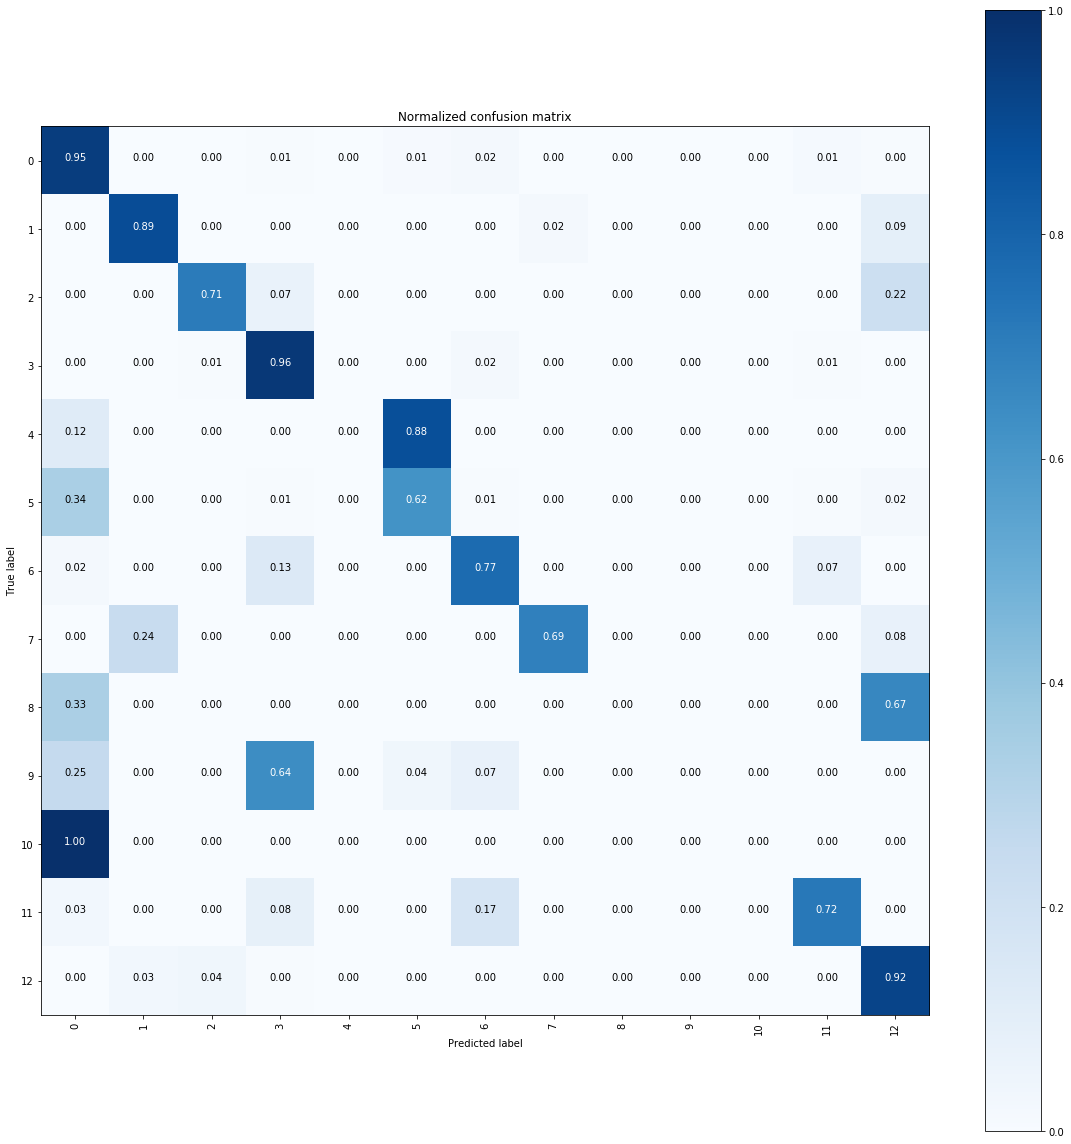
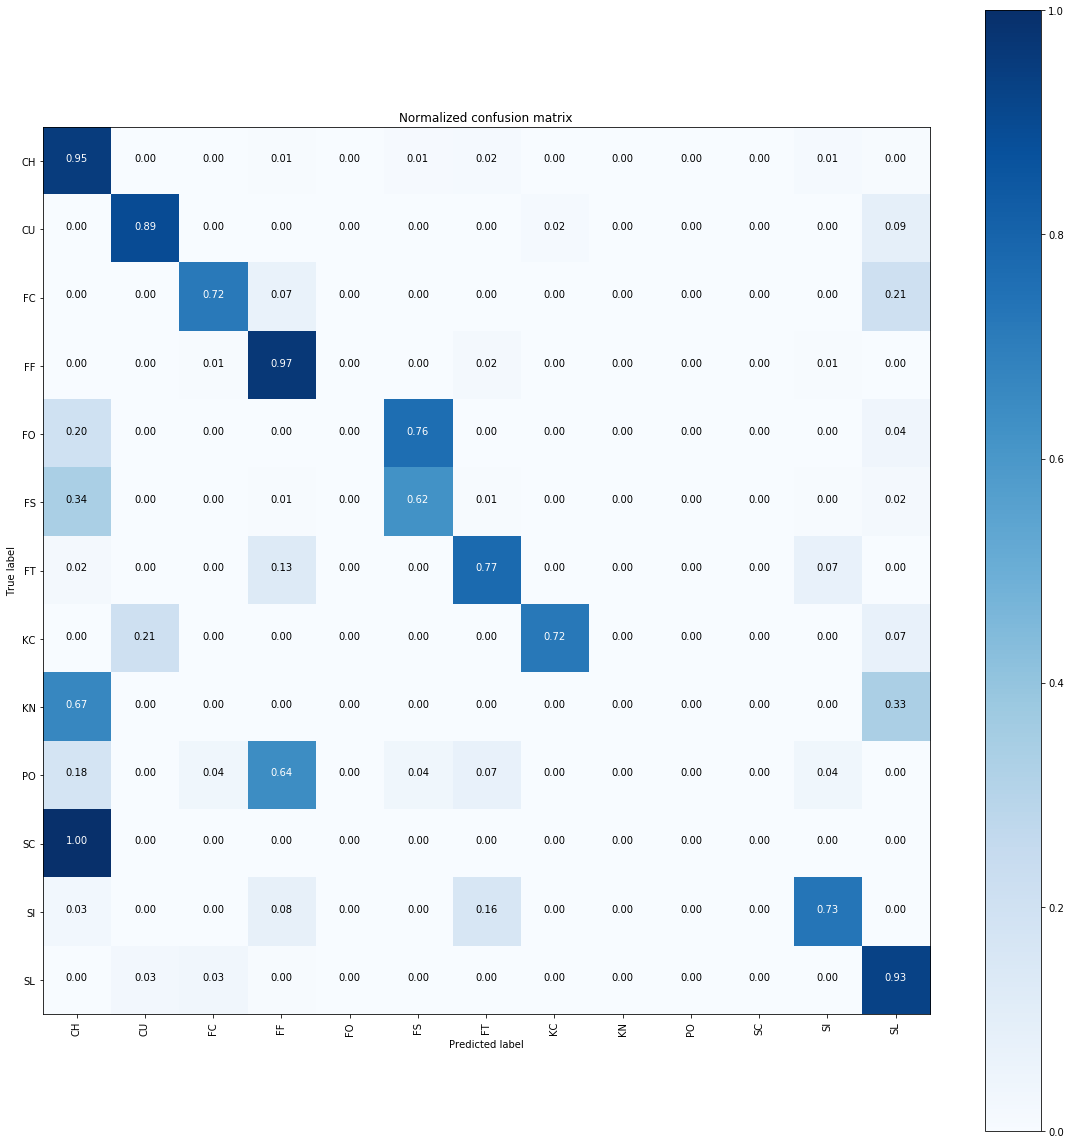
Add precision and recall, and updated images

diff --git a/_posts/2019-12-03-imbalanced.md b/_posts/2019-12-03-imbalanced.md
@@ -49,7 +49,7 @@ set(pitch_types)
 There are 10 pitch types in total.  Below are the descriptions for each pitch:
 
 - `CH`: changeup
-- `CU`:  curveball
+- `CU`: curveball
 - `EP`: ephus
 - `FC`: cutter
 - `FF`: four-seam
@@ -58,6 +58,10 @@ There are 10 pitch types in total.  Below are the descriptions for each pitch:
 - `KC`: knuckle-curve
 - `SI`: sinker
 - `SL`: slider
+- `KN`: knuckle
+- `FO`: forkball
+- `PO`: pitchout
+- `SC`: screwball
 
 We can get the count of each pitch type in our dataset with the following command:
 ```
@@ -156,21 +160,47 @@ from sklearn.ensemble import RandomForestClassifier
 rf = RandomForestClassifier(n_estimators=100,
                            oob_score=True,
                            random_state=0)
+rf.fit(X_train, y_train)
+
+rf_predictions = rf.predict(X_test)
 ```
 
 The results can be seen in the confusion matrix below.  We observe that the random forest model does
 a good job at predicting the pitch types that have many data points: changeups, curveballs,
-four-seam fastballs, and sliders.  As expected however, the model is not effective at predicting the
-minority pitch types.  Now let's use SMOTE in imbalanced-learn to see if we can improve the
-performance of our model through oversampling.
+four-seam fastballs, and sliders.  We can also take a look at the precision and recall for this model.  To do
+so, we will import `metrics` from scikit-learn.  As expected however, the model is not effective at predicting the
+minority pitch types. 
 
   <center><img style="margin: 0px 25px 20px 0px;" src="/images/blog/dec4/non_smote_confusion.png" width="800" height="800" /></center>
-  <center><em> A confusion matrix displaying the predicted pitch types (x-axis) versus the true
-  pitch types (y-axis)</em></center>
+  <center><em> A confusion matrix of the Random Forest Classifier results with imbalanced data </em></center><br/>
 
+```
+from sklearn import metrics
+print(metrics.classification_report(y_update, rf_update, target_names=sorted(set(y_update))))
 
+              precision    recall  f1-score   support
 
-To use SMOTE oversampling we use the `SMOTE()` function within imbalanced-learn:
+          CH       0.91      0.95      0.93     50090
+          CU       0.89      0.89      0.89     38776
+          FC       0.85      0.72      0.78     28095
+          FF       0.93      0.97      0.95    167880
+          FO       0.00      0.00      0.00        25
+          FS       0.88      0.62      0.73      6581
+          FT       0.78      0.77      0.78     44518
+          KC       0.90      0.72      0.80     11202
+          KN       0.00      0.00      0.00         3
+          PO       0.00      0.00      0.00        28
+          SC       0.00      0.00      0.00        14
+          SI       0.85      0.73      0.79     36646
+          SL       0.87      0.93      0.90     75256
+
+    accuracy                           0.89    459114
+   macro avg       0.60      0.56      0.58    459114
+weighted avg       0.89      0.89      0.89    459114
+```
+
+Now let's use SMOTE in imbalanced-learn to see if we can improve the performance of our model through
+oversampling.  To use SMOTE oversampling we use the `SMOTE()` function within imbalanced-learn:
 
 ```
 from imblearn.over_sampling import SMOTE
@@ -203,4 +233,50 @@ Counter({0: 311899,
 ```
 
 Nice! SMOTE generated synthetic data points so that now each pitch type is equal with each other.
-Now let's see if this improves the performance of the random forest classifier.
+Now let's see if this improves the performance of the random forest classifier.  Let's run the random forest classifier again, now
+with the resampled data from SMOTE.  The confusion matrix from the result are also shown down below.
+
+```
+# Run Random Forest Model
+rf = RandomForestClassifier(n_estimators=100,
+                           oob_score=True,
+                           random_state=0)
+
+rf.fit(X_resampled, y_resampled)
+
+rf_predictions = rf.predict(X_test)
+```
+
+  <center><img style="margin: 0px 25px 20px 0px;" src="/images/blog/dec4/smote_confusion.png" width="800" height="800" /></center>
+  <center><em> A confusion matrix of the Random Forest Classifier results with SMOTE</em></center><br/>
+
+From the confusion matrix, we see mixed results.  Pitches that already had a sufficient number of data points
+like cutters, knucklecurves, changeups, and four-seam fastballs are predicted with roughly the same accuracy.  However
+pitches like sliders, two-seam fastballs, curveballs, and sinkers are predicted with much better accuracy.
+There are still pitch types that aren't being predicted well at all, such as pitchouts and screwballs,
+which is likely due to the small amount of data for these pitch types to begin with.  In fact, I originally didn't come across pitchouts when analyzing a smaller size of data, so this might be an inconsistent pitch type.  
+Similar to what I did with the imbalanced data, I generated a list of precision, recall, and f1-scores.
+
+```
+print(metrics.classification_report(y_update, rf_update, target_names=sorted(set(y_update))))
+
+          precision    recall  f1-score   support
+
+          CH       0.93      0.93      0.93     50090
+          CU       0.90      0.91      0.90     38776
+          FC       0.77      0.83      0.80     28095
+          FF       0.96      0.93      0.95    167880
+          FO       0.31      0.16      0.21        25
+          FS       0.75      0.81      0.78      6581
+          FT       0.76      0.82      0.79     44518
+          KC       0.83      0.84      0.83     11202
+          KN       1.00      0.33      0.50         3
+          PO       0.16      0.21      0.18        28
+          SC       0.50      0.07      0.12        14
+          SI       0.82      0.80      0.81     36646
+          SL       0.91      0.89      0.90     75256
+
+    accuracy                           0.89    459114
+   macro avg       0.74      0.66      0.67    459114
+weighted avg       0.89      0.89      0.89    459114
+```
